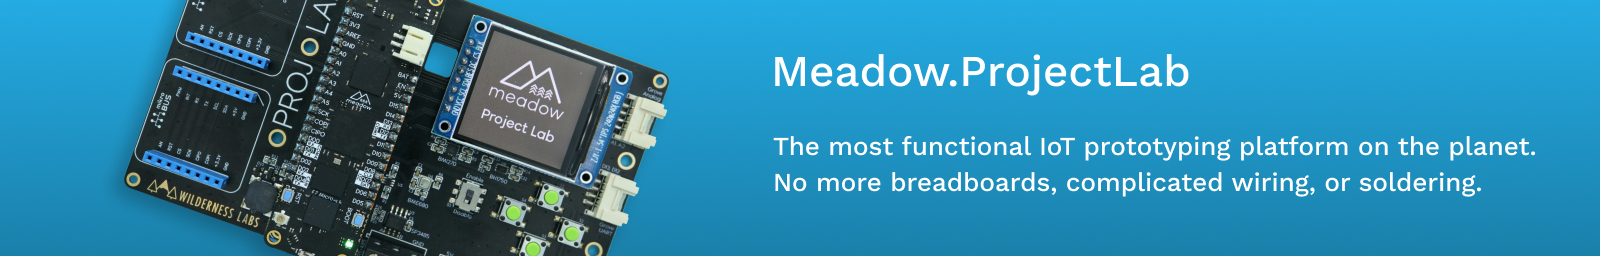
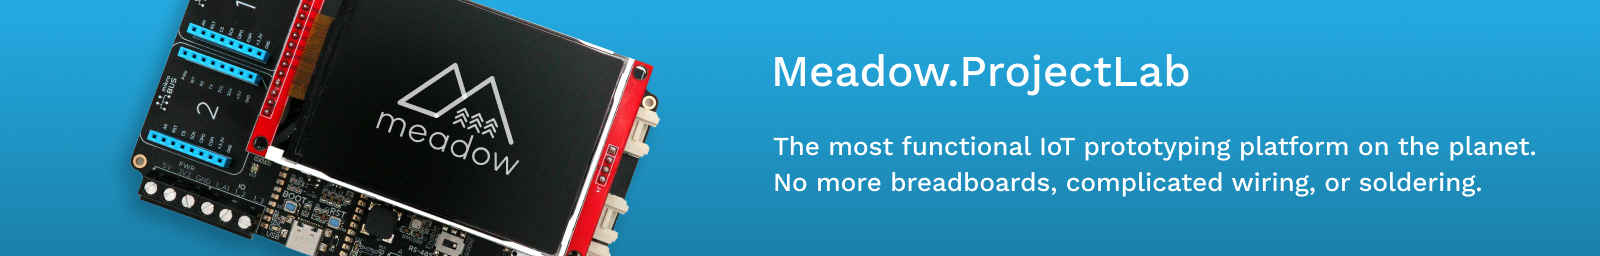
Update Readme

Changed region(s): [[0.0625, 0.0, 0.4375, 1.0]]

diff --git a/README.md b/README.md
@@ -9,8 +9,9 @@ Project Lab is the most functional IoT prototyping platform on the planet. No mo
 * [Getting Started](#getting-started)
 * [Hardware Specifications](#hardware-specifications)
 * [Pinout Diagram](#pinout-diagram)
-  * [Project Lab v1.e](#project-lab-v1e)
+  * [Project Lab v3.e](#project-lab-v3e)
   * [Project Lab v2.e](#project-lab-v2e)
+  * [Project Lab v1.e](#project-lab-v1e)
 * [Additional Samples](#additional-samples)
 
 ## Purchasing or Building
@@ -85,7 +86,7 @@ public class MeadowApp : App<F7FeatherV2>
         <th>Connectivity</th>
     </tr>
     <tr>
-        <td><strong>ST7789</strong> - SPI 240x240 color display</li></td>
+        <td><strong>ILI9341</strong> - SPI 320x240 color display</li></td>
         <td><strong>MikroBUS</strong> - Two sets of MikroBUS pin headers</td>
     </tr>
     <tr>
@@ -117,13 +118,17 @@ You can find the schematics and other design files in the [Hardware folder](/Har
 Check the diagrams below to see what pins on the Meadow are connected to every peripheral on board and its connectors:
 &nbsp;
 
-### Project Lab v1.e
+### Project Lab v3.e
 
-<img src="Design/PinoutV1.jpg" style="margin-top:10px;margin-bottom:10px" />
+<img src="Design/PinoutV3.jpg" style="margin-top:10px;margin-bottom:10px" />
 
 ### Project Lab v2.e
 
 <img src="Design/PinoutV2.jpg" style="margin-top:10px;margin-bottom:10px" />
+
+### Project Lab v1.e
+
+<img src="Design/PinoutV1.jpg" style="margin-top:10px;margin-bottom:10px" />
 
 ## Additional Samples
 
